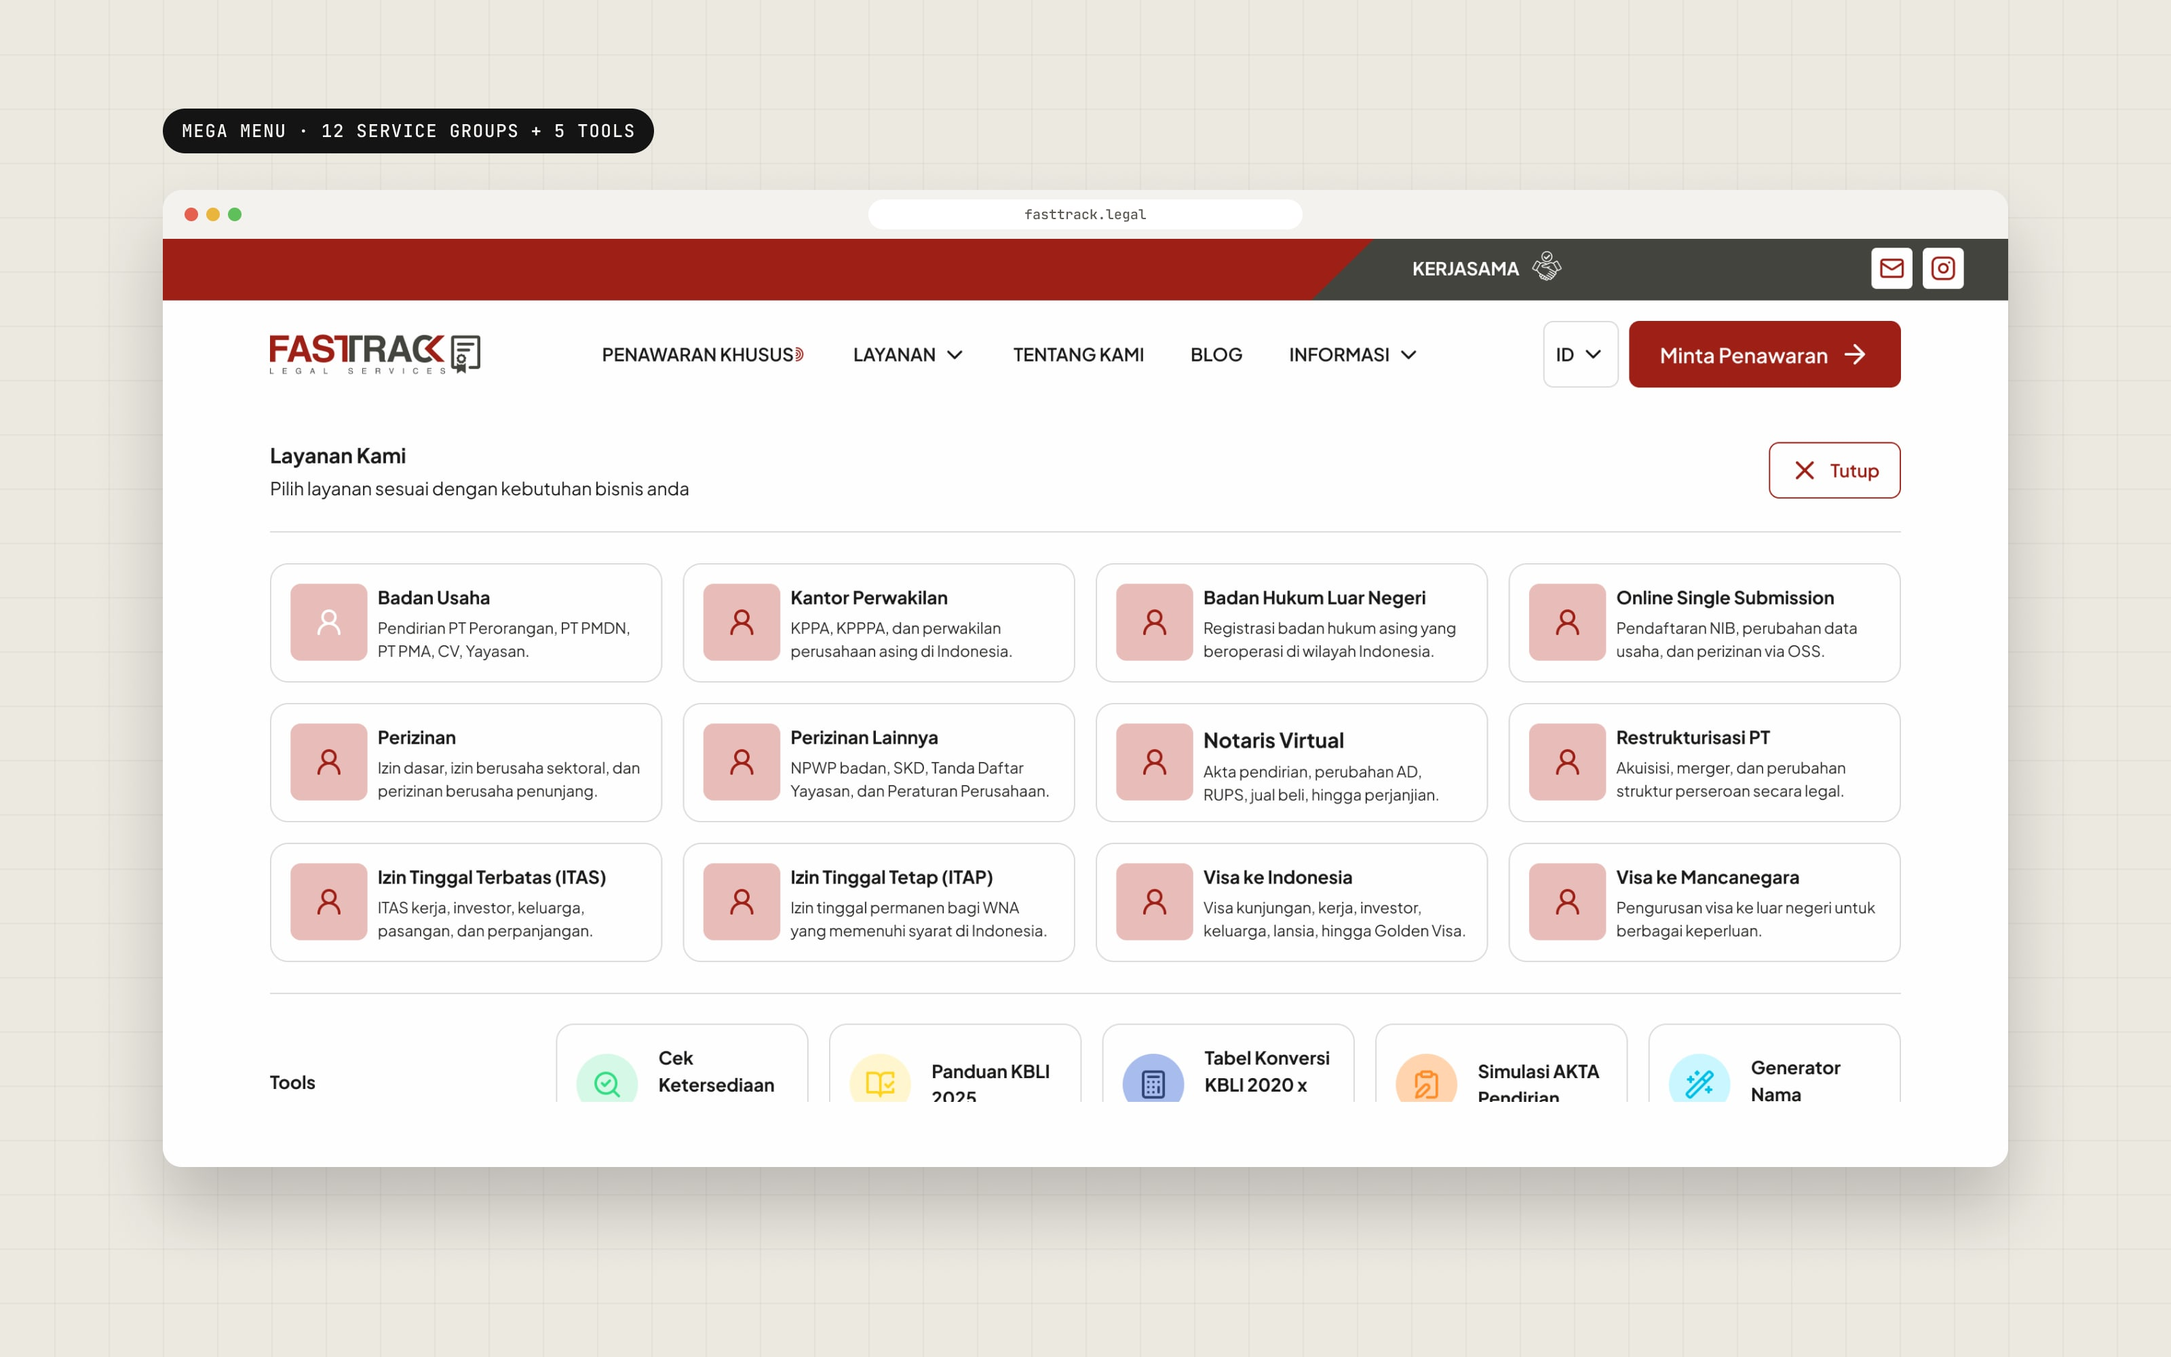
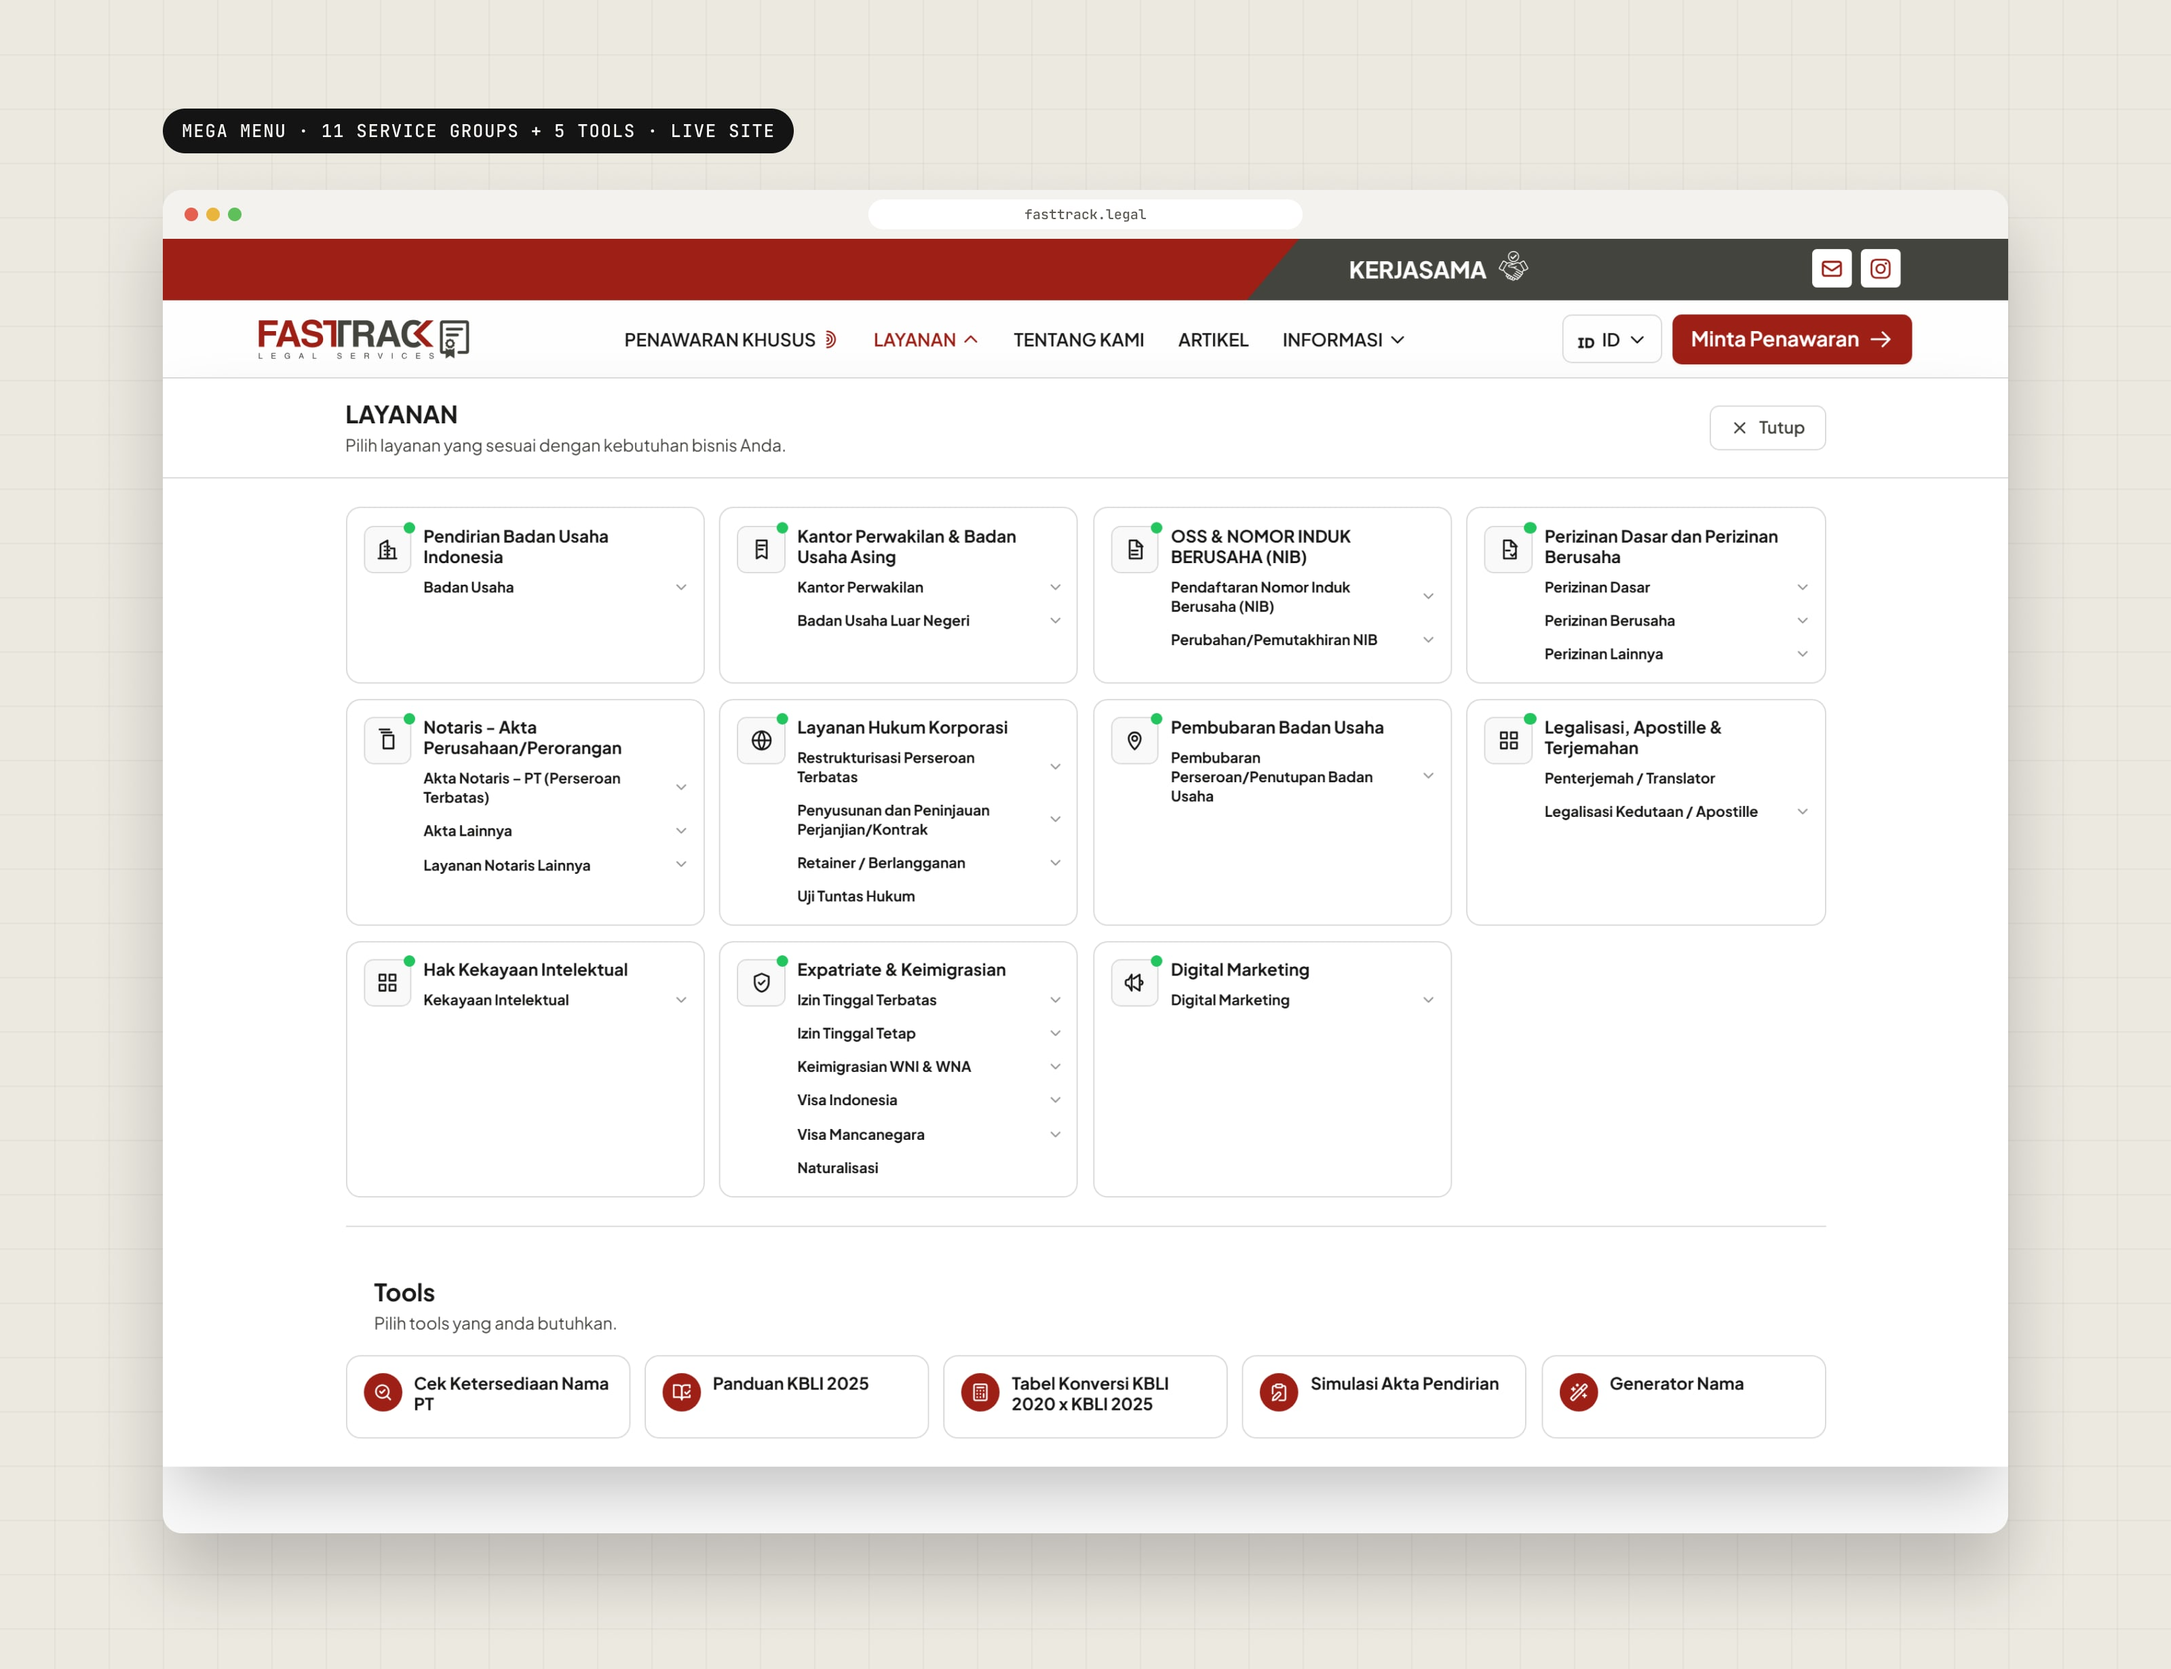
FastTrack: live-site screens in Solution, diagrams in FastTrack brand style

diff --git a/src/data/projects.js b/src/data/projects.js
@@ -26,7 +26,8 @@ export const projects = [
     links: [{ label: 'fasttrack.legal', href: 'https://fasttrack.legal/', kind: 'Live site', confirmed: false }],
     cover: { kind: 'web', note: 'the home page, the service mega menu and the mobile home page' },
     // Visuals from the Figma page "Visuals · FastTrack". Desktop screens come from the FastTrack Figma file,
-    // mobile screens from the live site. Sitemap, user flow and wireframe were redrawn for this case study.
+    // mobile screens from the live site. The Solution images use the live site (fasttrack.legal).
+    // Sitemap, user flow and wireframe were redrawn for this case study in the FastTrack style (FastTrack Figma file, page "UX Documentation (Portfolio)").
     images: { cover: 'fasttrack/cover.jpg', card: 'fasttrack/card.jpg' },
     tiles: [
       ['Structure first.', 'I organized 25 types of legal services into one navigation for 100+ pages.'],
@@ -64,17 +65,17 @@ export const projects = [
       ['Stay close to the developers.', 'During the build, I worked with the developers so the website matched the Figma design and stayed realistic to build.'],
     ],
     processImages: [
-      { src: 'fasttrack/sitemap.png', alt: 'Sitemap: Home, six menu items, 12 service groups, 5 tools and the shared service page template', caption: 'The site structure: six menu items, 12 service groups and 5 tools. Redrawn for this case study from the final design.' },
+      { src: 'fasttrack/sitemap.png', alt: 'Sitemap: Home, six menu items, 11 service groups, 5 tools and the shared service page template', caption: 'The site structure: six menu items, 11 service groups and 5 tools. Redrawn for this case study from the live site.' },
       { src: 'fasttrack/user-flow.png', alt: 'User flow from landing on the site to ordering a service, with a side path through the free tools', caption: 'The main path, from "which service?" to "how do I start?". Redrawn for this case study.' },
       { src: 'fasttrack/wireframe.png', alt: 'Low-fidelity wireframe of a service page on desktop and mobile', caption: 'A service page as a lo-fi wireframe: key facts on the left, the next step on the right. Redrawn for this case study from the final layout.' },
     ],
     solutionHead: 'One navigation, readable pages, and tools for the first questions.',
     solution: [
-      { t: 'One navigation for 25 services.', b: 'The services are grouped into clear categories, so people can find the type of service they need.',
-        chips: ['PT Perorangan', 'PT PMDN', 'PT PMA', 'CV', 'OSS & NIB', 'Business licensing', 'Notary services', 'Virtual office', 'Corporate services', 'Visa & immigration'],
-        img: { src: 'fasttrack/navigation.jpg', alt: 'The Layanan mega menu with 12 service groups and 5 tools', caption: 'The Layanan mega menu: 12 service groups and the 5 tools in one panel.' } },
+      { t: 'One navigation for 25 services.', b: 'The services are grouped into 11 clear groups on the live site, so people can find the type of service they need.',
+        chips: ['Pendirian Badan Usaha Indonesia', 'Kantor Perwakilan & Badan Usaha Asing', 'OSS & NIB', 'Perizinan Dasar dan Perizinan Berusaha', 'Notaris – Akta', 'Layanan Hukum Korporasi', 'Pembubaran Badan Usaha', 'Legalisasi, Apostille & Terjemahan', 'Hak Kekayaan Intelektual', 'Expatriate & Keimigrasian', 'Digital Marketing'],
+        img: { src: 'fasttrack/navigation.jpg', alt: 'The Layanan mega menu on the live site, with 11 service groups and 5 tools', caption: 'The Layanan mega menu on the live site: 11 service groups and the 5 tools in one panel.' } },
       { t: 'Service pages that read in order.', b: 'Each service page starts with what the service is and who it is for, then moves to requirements, process and documents.',
-        img: { src: 'fasttrack/service-page.jpg', alt: 'The PT Perorangan service page on desktop, next to the service list on mobile', caption: 'The PT Perorangan page on desktop, next to the service list on mobile.' } },
+        img: { src: 'fasttrack/service-page.jpg', alt: 'The PT Perorangan service page on desktop, next to the service list on mobile', caption: 'The live PT Perorangan page on desktop, next to the service list on mobile.' } },
       { t: 'Five tools for the first questions.', b: 'These tools help people answer common questions before they talk to the legal team.',
         cards: [
           ['PT Name Availability Checker', 'Check if a company name may be available before registering.'],
@@ -83,9 +84,9 @@ export const projects = [
           ['Deed of Establishment Simulator', 'Try out the information a deed needs, before the formal process.'],
           ['PT Name Generator', "Get company name ideas when you don't know where to start."],
         ],
-        img: { src: 'fasttrack/tools.jpg', alt: 'The KBLI 2025 Guide, the Deed of Establishment Simulator and the name generator modal', caption: 'Panduan KBLI 2025, Simulasi Akta Pendirian and the Generator Nama modal.' } },
+        img: { src: 'fasttrack/tools.jpg', alt: 'The KBLI 2025 Guide, the Deed of Establishment Simulator and the name generator modal', caption: 'Panduan KBLI 2025, Simulasi Akta Pendirian and the Generator Nama modal on the live site.' } },
       { t: 'A component library for 100+ pages.', b: 'Navigation, buttons, forms, cards, service listings, pricing sections, information blocks, tables, alerts and tool components. Each page uses the same parts, so new services can be added without a new design.',
-        img: { src: 'fasttrack/components.jpg', alt: 'Service card variants from the component library and the same cards in the home service list', caption: 'Service card variants from the component library, and the same cards in the Home service list.' } },
+        img: { src: 'fasttrack/components.jpg', alt: 'Service cards and tool cards on the live home page', caption: 'The same service card and tool card patterns, as they appear on the live home page.' } },
     ],
     stats: [['100+', 'pages organized in one structure'], ['25', 'service types in one navigation'], ['5', 'interactive tools'], ['2', 'layouts for every page: desktop and mobile'], ['1', 'component library behind the whole site']],
     resultList: [],
